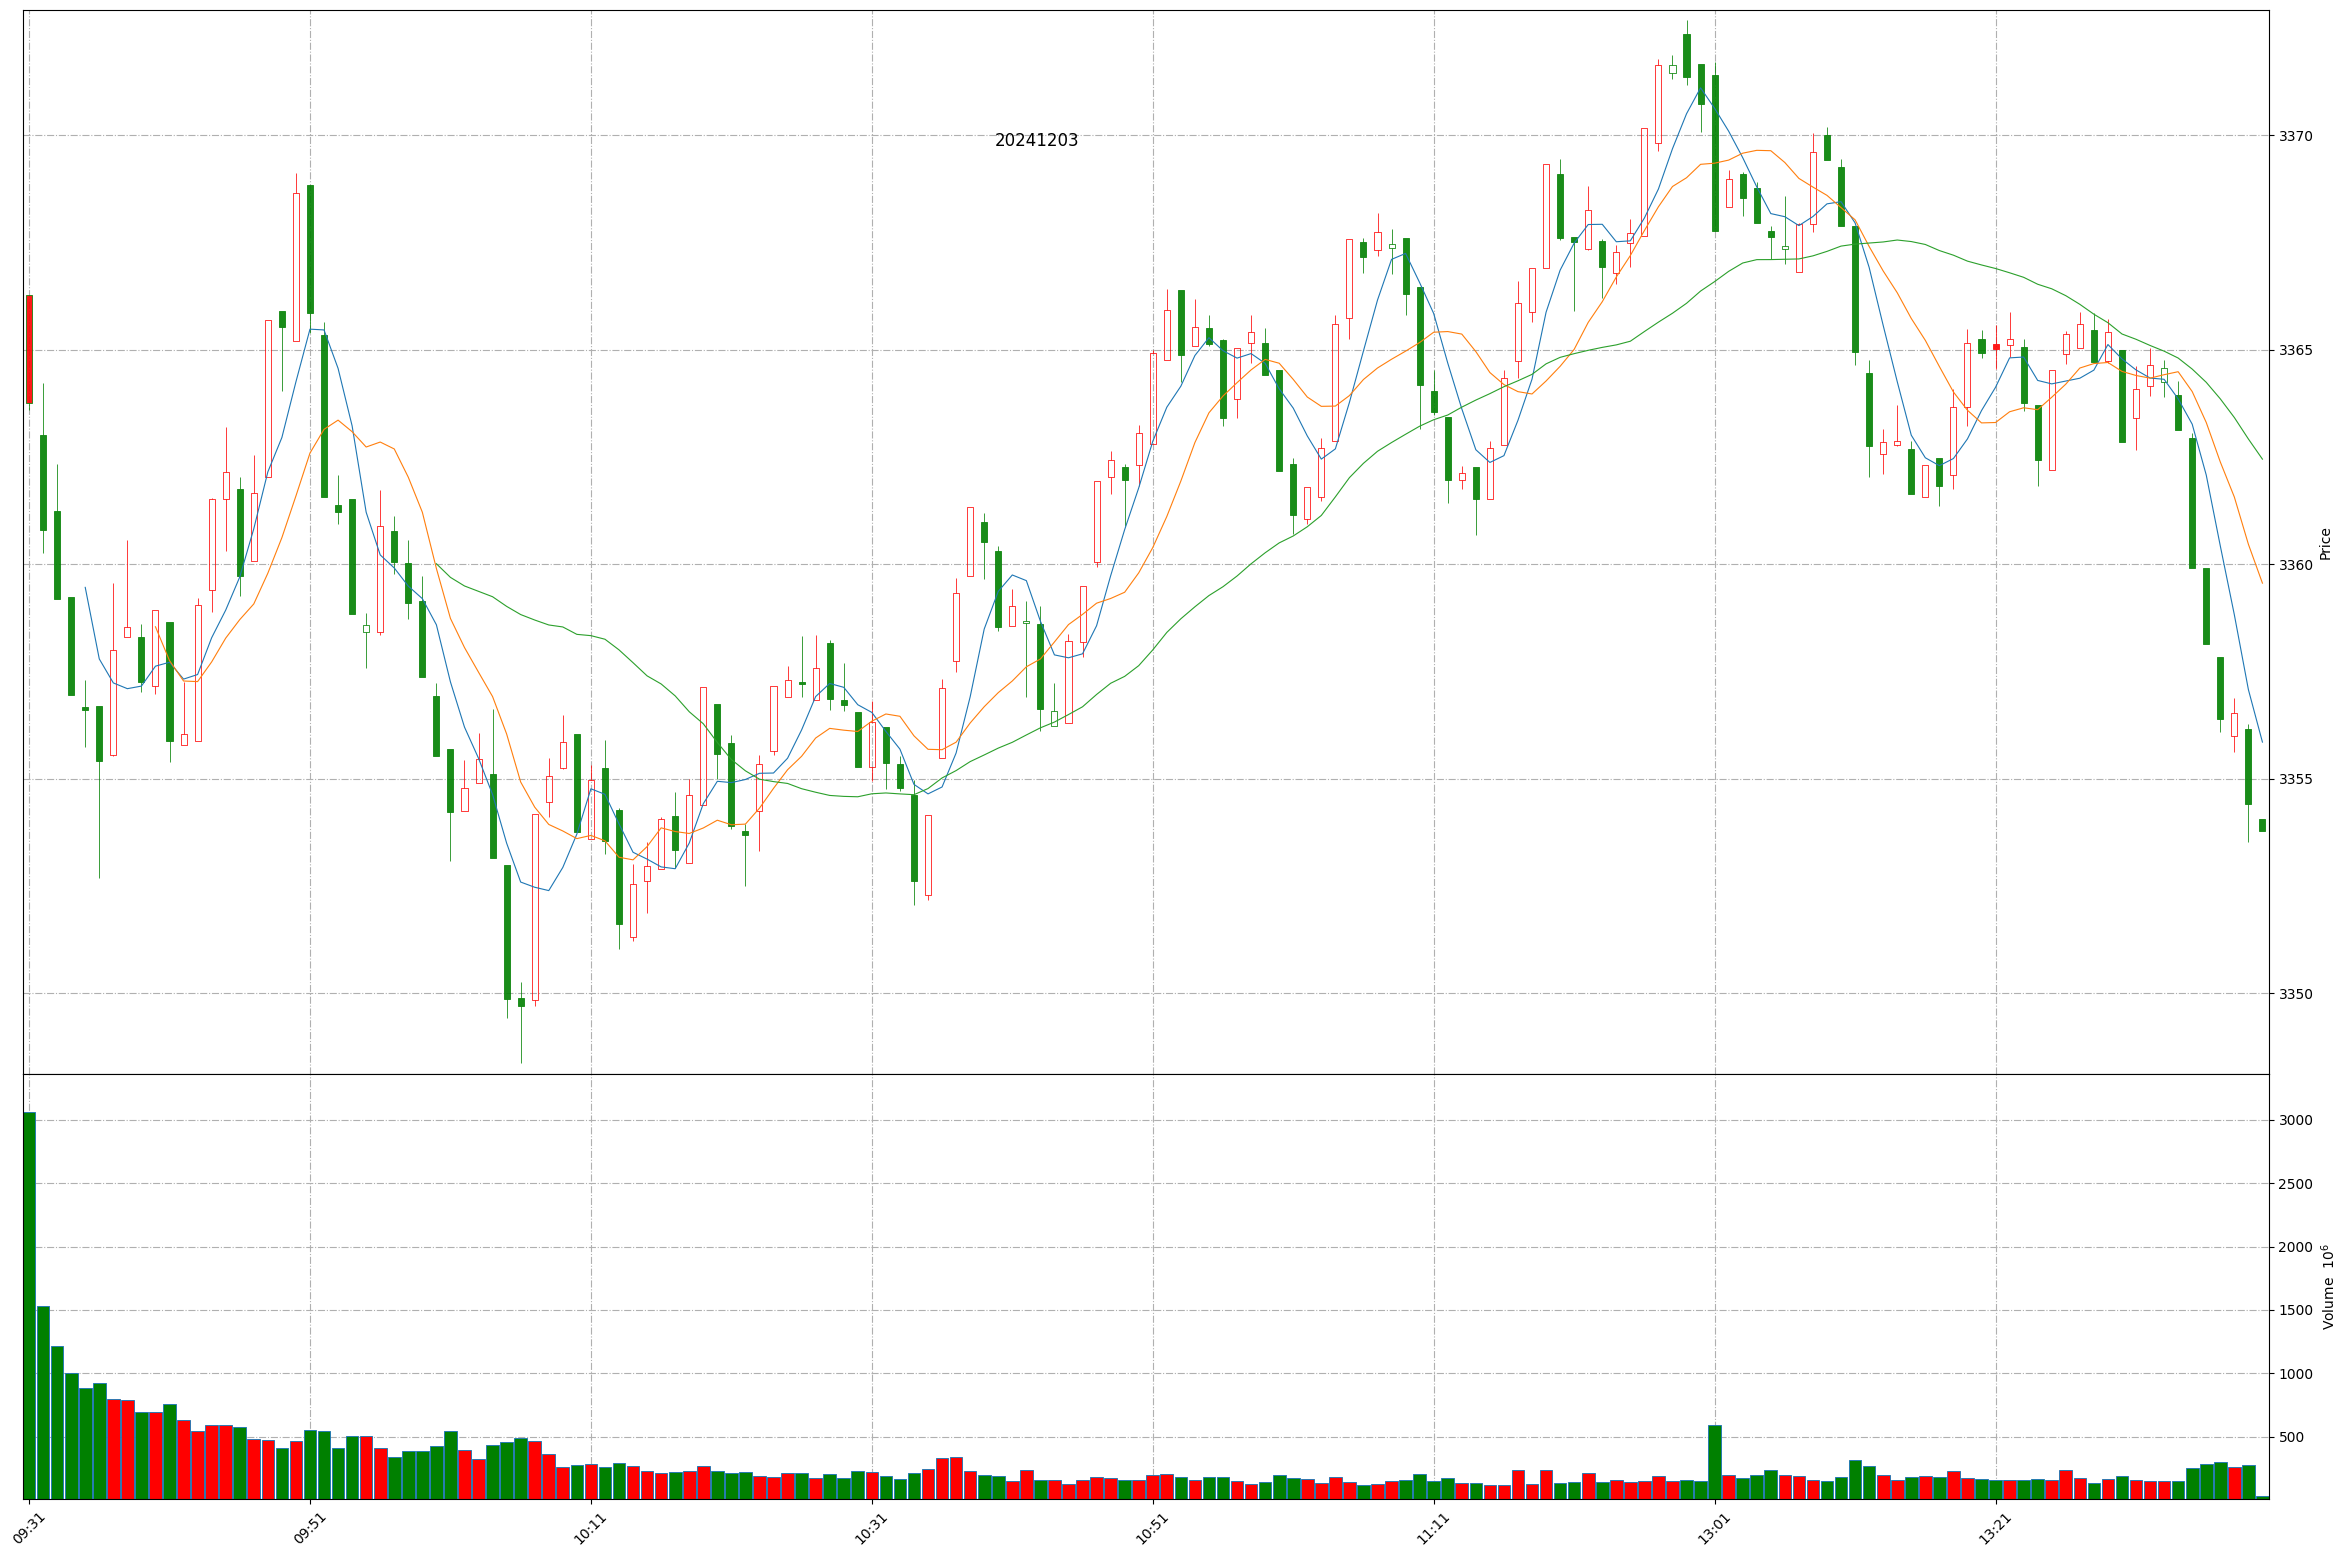
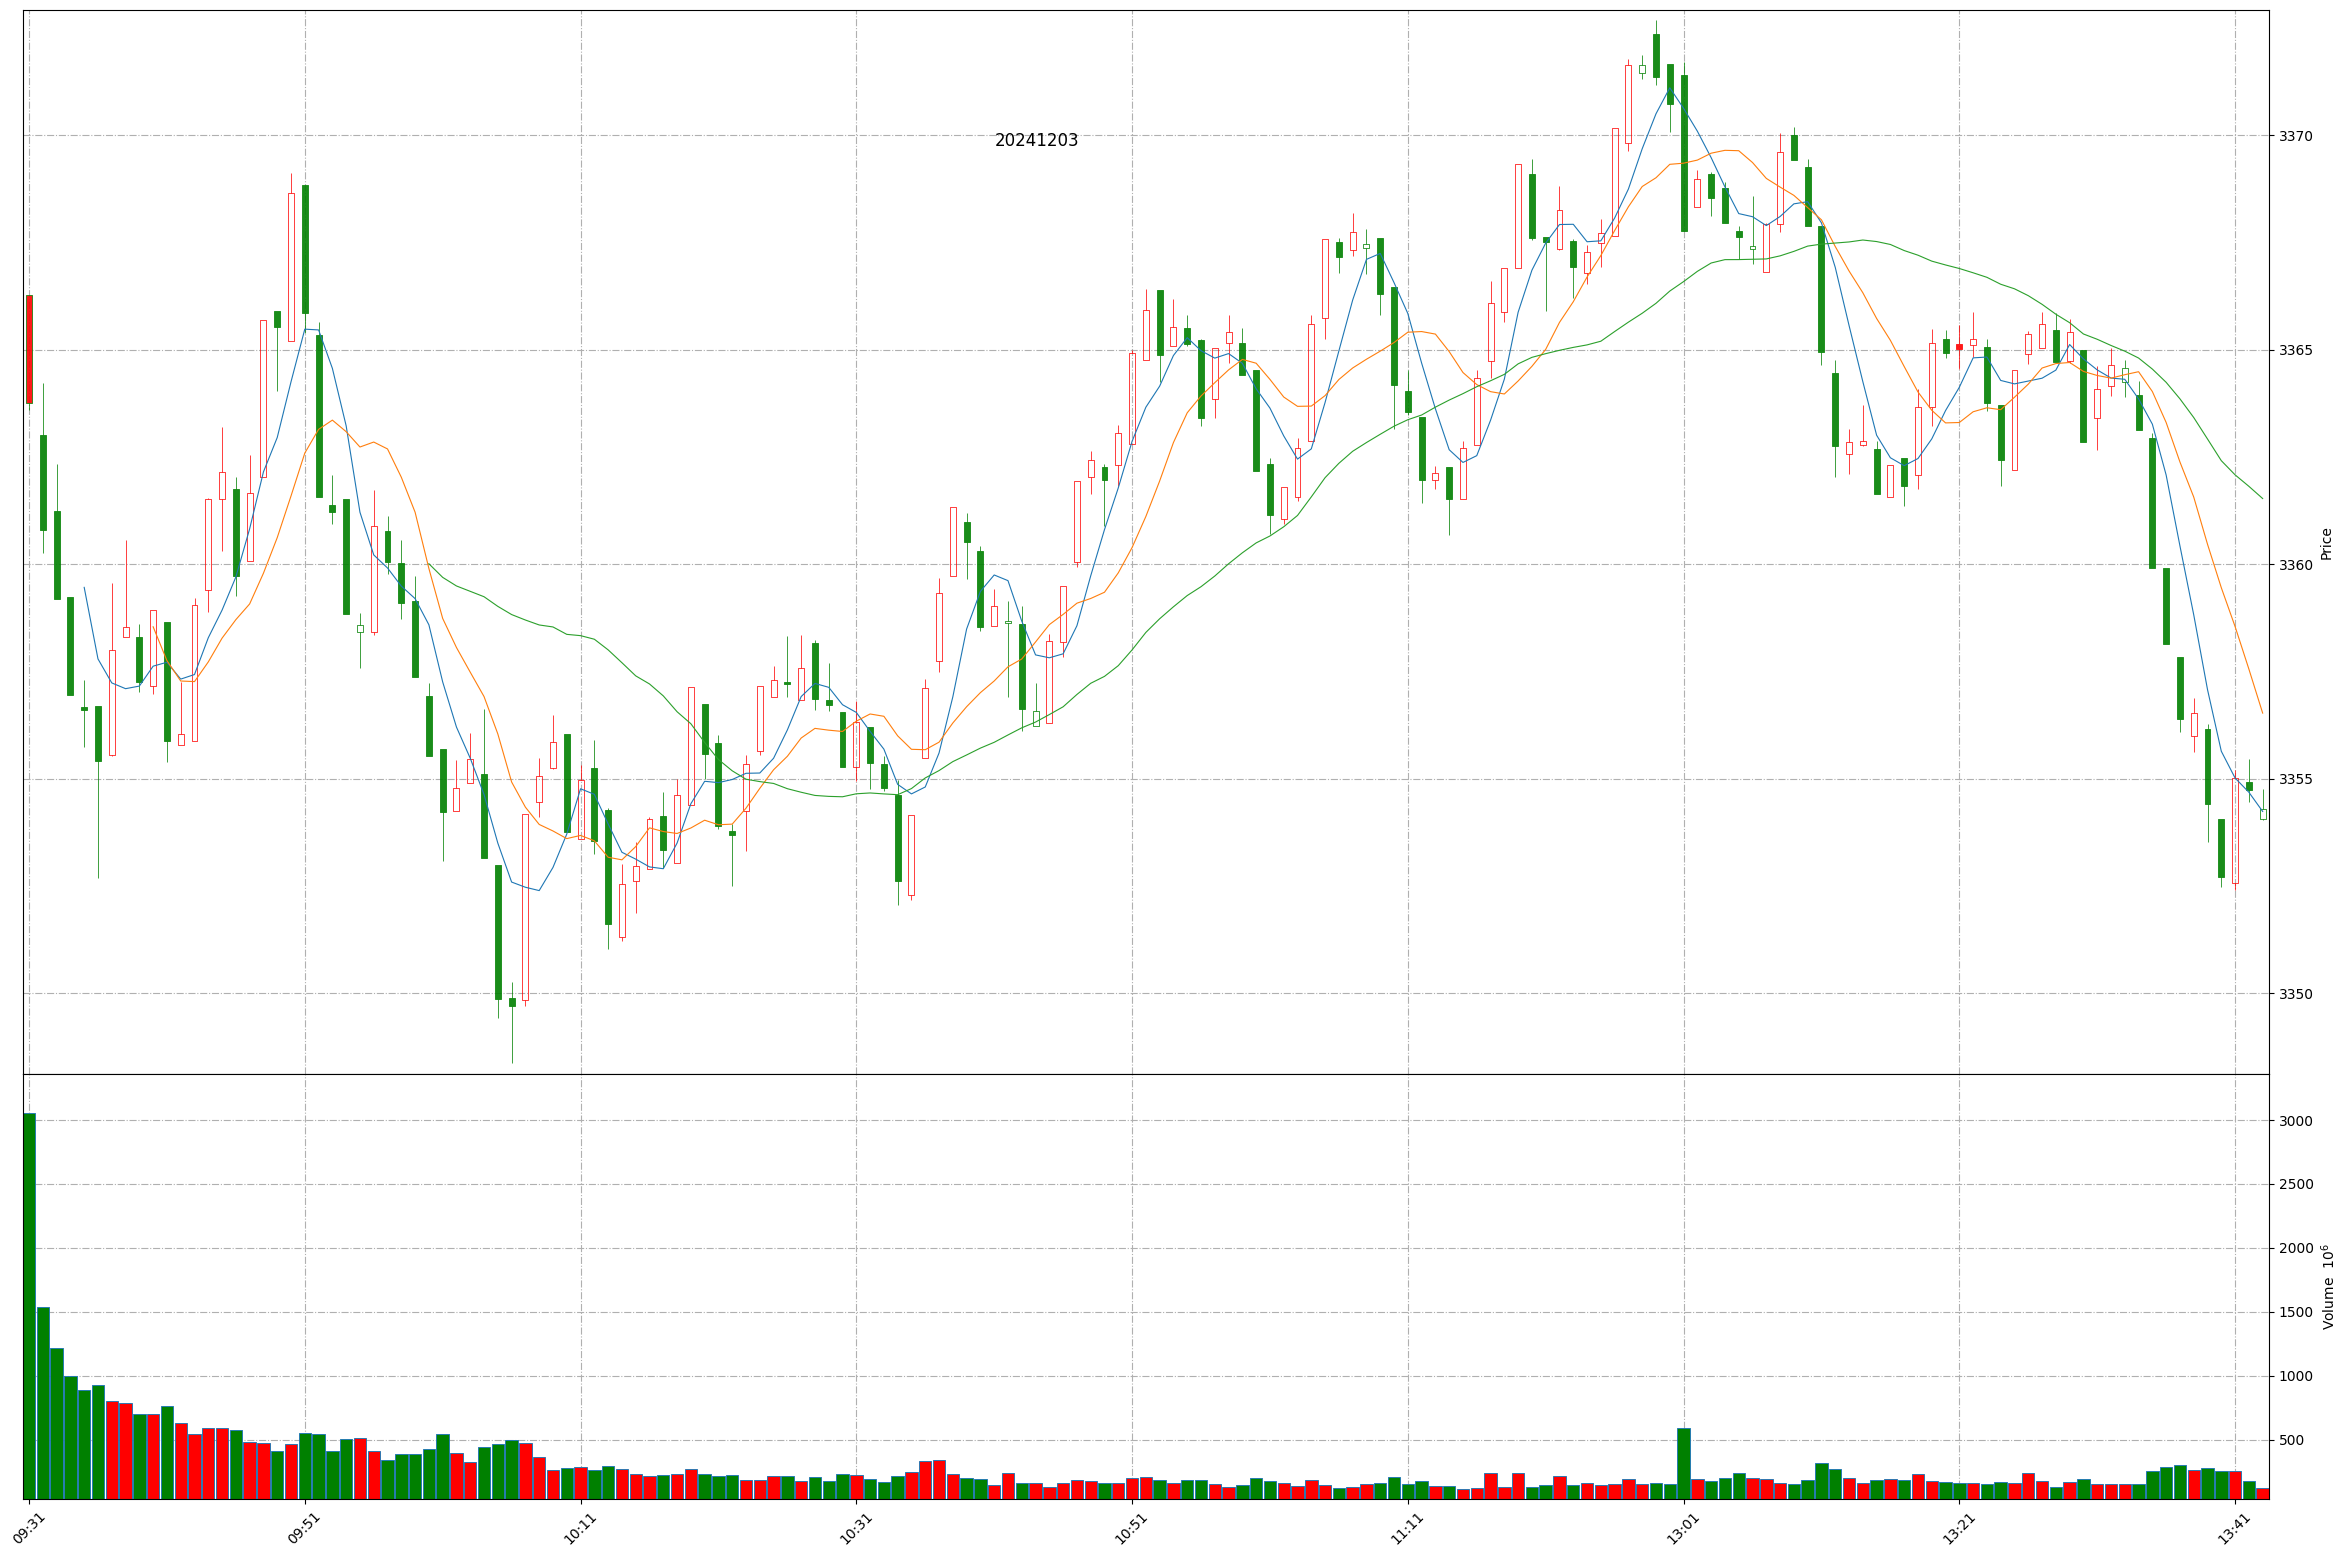
Github action update at 2024-12-03 13:43:03.

diff --git a/README.md b/README.md
@@ -1,11 +1,11 @@
 
 # Daily-A-share-market-quotes 每日 A 股指数（5min 更新）- 20241203
 
-### 上证指数 20241203 13:39
+### 上证指数 20241203 13:43
 ![](./fig/2024/12/20241203-sh000001.png)
 
-### 深证成指 20241203 13:39
+### 深证成指 20241203 13:43
 ![](./fig/2024/12/20241203-sz399001.png)
 
-### 北证50 20241203 13:39
+### 北证50 20241203 13:43
 ![](./fig/2024/12/20241203-bj899050.png)
